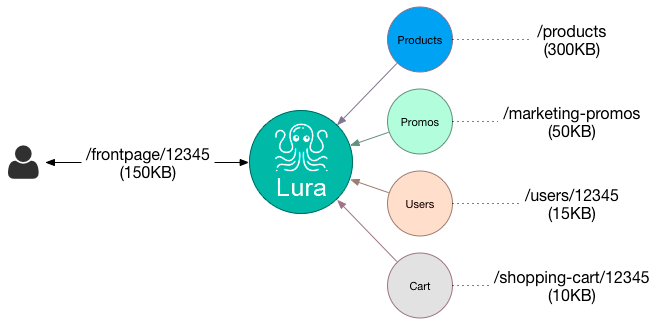
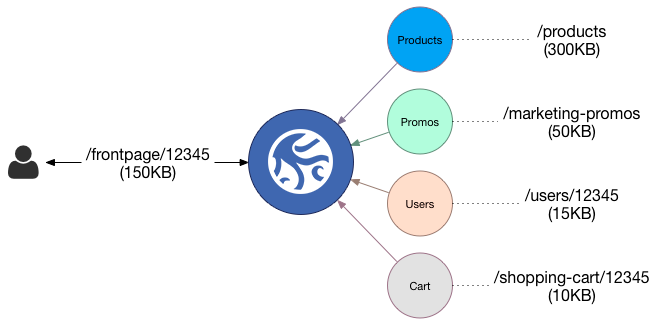
Replace image on homepage schema and some other small changes

Changed region(s): [[0.367, 0.3395, 0.5505, 0.679]]

diff --git a/content/community.md b/content/community.md
@@ -5,11 +5,9 @@ date: 2019-03-26T08:47:11+01:00
 
 # Community
 
->_Lura is developed in the open. Here are some of the channels we use to communicate and contribute._
+>_The Lura Project is developed in the open. Here are some of the channels we use to communicate and contribute._
 
-**Mailing list**: lura-discuss@googlegroups.com - discussion around Lura usage, community support and developer discussion (very low traffic, most discussion happens on Github).
-
-**Slack**: #krakend on https://gophers.slack.com
+**Slack**: #krakend on https://gophers.slack.com ([get an invite here](https://invite.slack.golangbridge.org/))
 
 **Twitter**: [@luraproject](https://twitter.com/luraproject)
 
@@ -18,10 +16,10 @@ date: 2019-03-26T08:47:11+01:00
 Please do not ask individual project members for support. Use the channels above instead, where the whole community can help you and benefit from the solutions provided.
 
 ## Contributing
-We welcome community contributions! Please see the CONTRIBUTING.md file in the CoreDNS repository for instructions on how to submit changes. If you are planning on making more elaborate or controversial changes, please discuss them on the mailing list or on Github before sending a pull request.
+We welcome community contributions! Please see the `CONTRIBUTING.md` file in the Lura repository for instructions on how to submit changes. If you are planning on making more elaborate or controversial changes, please discuss them on the mailing list or on GitHub before sending a pull request.
 
 ## Project Governance
-The Lura project is an independent open-source project and not controlled by any single company. To emphasize this and clarify our governance structure, we joined the [Linux Foundation](https://linuxfoundation.org/) in 2021.
+The Lura Project is an independent open-source project and not controlled by any single company. To emphasize this and clarify our governance structure, we joined the [Linux Foundation](https://linuxfoundation.org/) in 2021.
 
 ## Code of Conduct
-To make Lura a welcoming and harassment-free experience for everyone, we follow the [CNCF Code of Conduct](https://github.com/cncf/foundation/blob/master/code-of-conduct.md)
+To make Lura a welcoming and harassment-free experience for everyone, we follow the [LF Code of Conduct](https://lfprojects.org/policies/code-of-conduct/)

diff --git a/content/_index.md b/content/_index.md
@@ -3,7 +3,7 @@ title: "The Lura Project"
 description: "An extendable, simple and **stateless high-performance API Gateway framework** designed for both cloud-native and on-prem setups"
 ---
 
-# What is the Lura project
+# What is the Lura Project
 
 Consumers of REST API content (specially in microservices) often query backend services that weren't coded for the UI implementation. This is of course a good practice, but the UI consumers need to do implementations that suffer a lot of complexity and burden with the sizes of their microservices responses.
 
